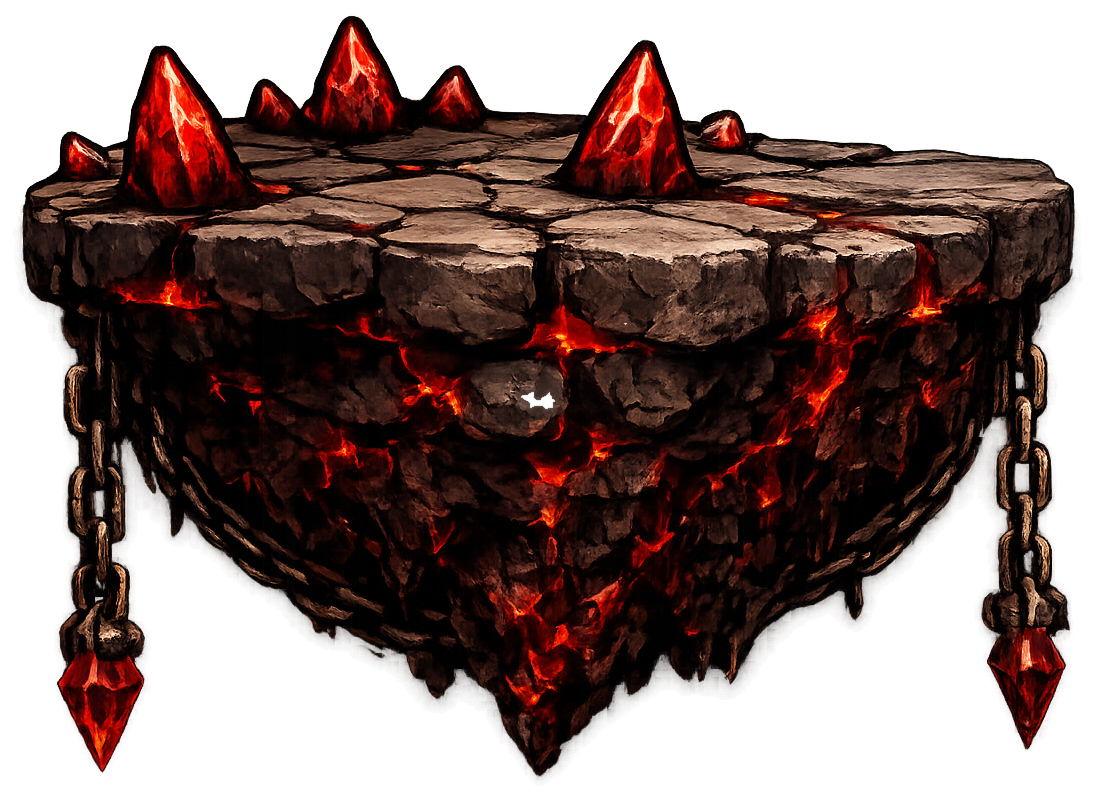
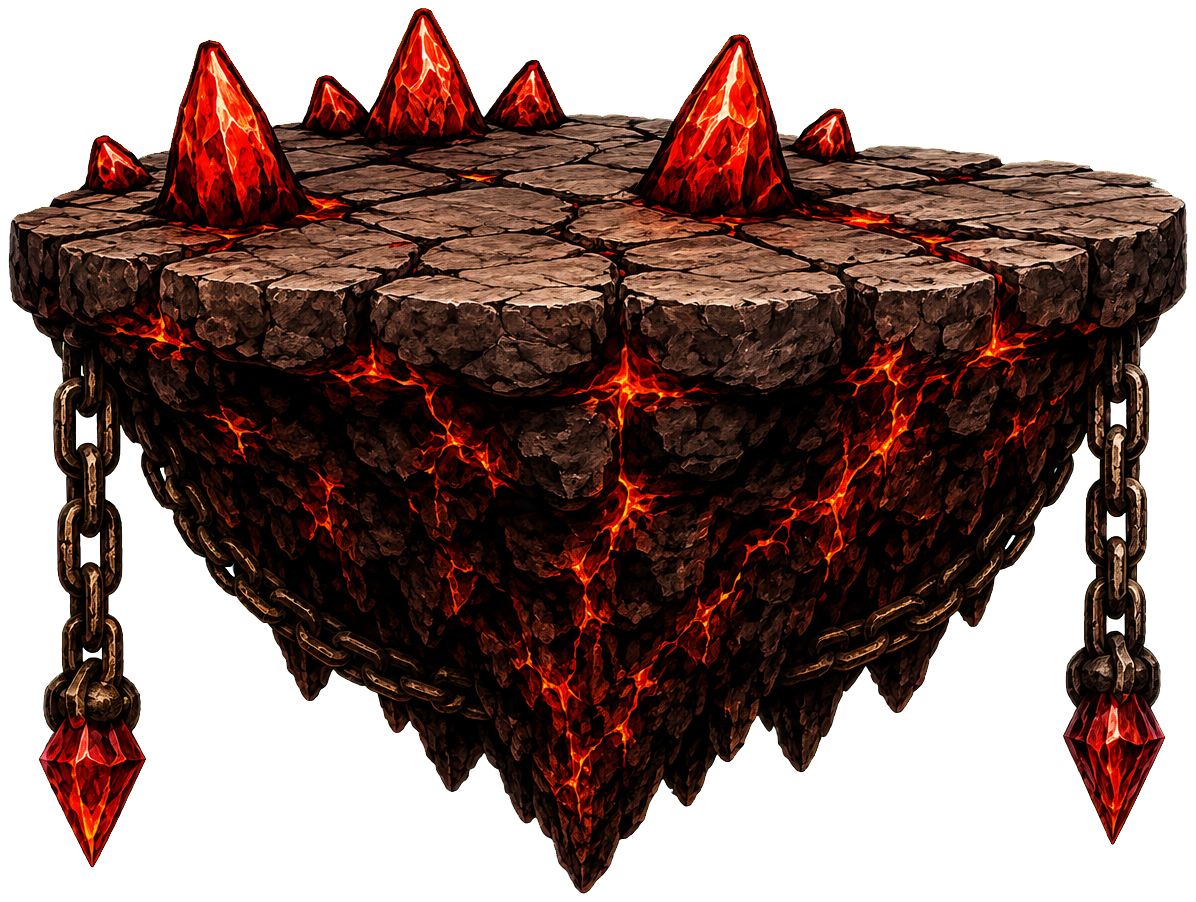
Replace Colt Run platform 02

diff --git a/app.js b/app.js
@@ -2047,6 +2047,7 @@ function startColtRunGame() {
   const smallPlatformSpriteIndex = 21;
   const platformAssetVersions = Array.from({ length: 22 }, () => "20260718-platform07-replace1");
   platformAssetVersions[0] = "20260718-platform01-replace1";
+  platformAssetVersions[1] = "20260718-platform02-replace1";
   platformAssetVersions[3] = "20260718-platform04-replace1";
   platformAssetVersions[4] = "20260718-platform05-replace1";
   platformAssetVersions[8] = "20260718-platform09-replace1";

diff --git a/index.html b/index.html
@@ -8,7 +8,7 @@
 </head>
 <body>
   <main id="app" class="app-shell"></main>
-  <script src="app.js?v=20260718-platform14-replace1"></script>
+  <script src="app.js?v=20260718-platform02-replace1"></script>
 </body>
 </html>
 
